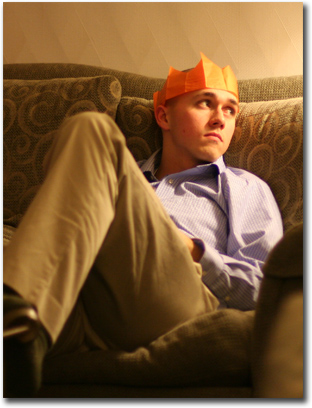
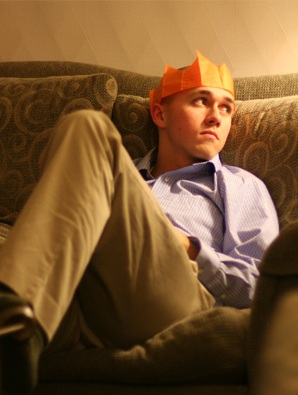
Fixed links for archive section headers; updated aboutme image

diff --git a/mysite/templates/blog/entry_list.html b/mysite/templates/blog/entry_list.html
@@ -11,7 +11,7 @@
     </div>
     
     <div class="leftContent">
-        <h2 class="section-title"><a href="{% url blog_index %}">{% block contentTitle %}entries{% endblock %}</a></h2>
+        <h2 class="section-title">{% block contentTitle %}<a href="{% url blog_index %}">entries</a>{% endblock %}</h2>
         {% block entryList %}
         <div id="entry-list">
             {% if is_paginated and has_previous %}<div class="indicator"><a href="{% url blog_index_paginated previous %}">Newer entries &#187;</a></div>{% endif %}

diff --git a/mysite/templates/blog/entry_archive_month.html b/mysite/templates/blog/entry_archive_month.html
@@ -1,4 +1,4 @@
 {% extends "blog/entry_list.html" %}
 {% block title %} | Blog | {{ month|date:"F Y" }}{% endblock %}
 
-{% block contentTitle %}Monthly archive for {{ month|date:"F Y" }}{% endblock %}
+{% block contentTitle %}<a href="{% url blog_archive_month year=month|date:"Y",month=month|date:"m" %}">Monthly archive for {{ month|date:"F Y" }}</a>{% endblock %}

diff --git a/mysite/templates/blog/tag_detail.html b/mysite/templates/blog/tag_detail.html
@@ -1,4 +1,4 @@
 {% extends "blog/entry_list.html" %}
 {% block title %} | Blog | {{ tag.name }}{% endblock %}
 
-{% block contentTitle %}Entries tagged with "{{ tag.name }}"{% endblock %}
+{% block contentTitle %}<a href="{% url blog_tag_detail tag.name %}">Entries tagged with "{{ tag.name }}"</a>{% endblock %}

diff --git a/mysite/templates/blog/entry_archive_year.html b/mysite/templates/blog/entry_archive_year.html
@@ -1,4 +1,4 @@
 {% extends "blog/entry_list.html" %}
 {% block title %} | Blog | {{ year }}{% endblock %}
 
-{% block contentTitle %}Yearly archive for {{ year }}{% endblock %}
+{% block contentTitle %}<a href="{% url blog_archive_year year %}">Yearly archive for {{ year }}</a>{% endblock %}

diff --git a/site-media/base.css b/site-media/base.css
@@ -116,6 +116,7 @@ blockquote {
 blockquote p:last-child { margin-bottom: 0; }
 
 .section-title {
+    color: #BFBF8A;
 	margin-bottom: 0;
 	border-bottom: 1px solid #30403B;
 }
@@ -217,6 +218,10 @@ img.fRight {
 }
 .fLeft {
     float: left;
+}
+
+.caps {
+    font-size: 0.92em;
 }
 
 /*

diff --git a/mysite/blog/urls.py b/mysite/blog/urls.py
@@ -23,9 +23,9 @@ urlpatterns = patterns('',
         view=blog_views.tag_list,
         name='blog_tag_list'),
 
-    url (r'^search/$',
-        view=blog_views.search,
-        name='blog_search'),
+    #url (r'^search/$',
+    #    view=blog_views.search,
+    #    name='blog_search'),
 
     url(r'^page/(?P<page>\w)/$',
         view=blog_views.blog_entry_list,

diff --git a/mysite/local_settings.development.template.py b/mysite/local_settings.development.template.py
@@ -49,3 +49,7 @@ INSTALLED_APPS = (
     'django.contrib.admindocs',
     'debug_toolbar',
 )
+
+DEBUG_TOOLBAR_CONFIG = {
+    'INTERCEPT_REDIRECTS': False,
+}
